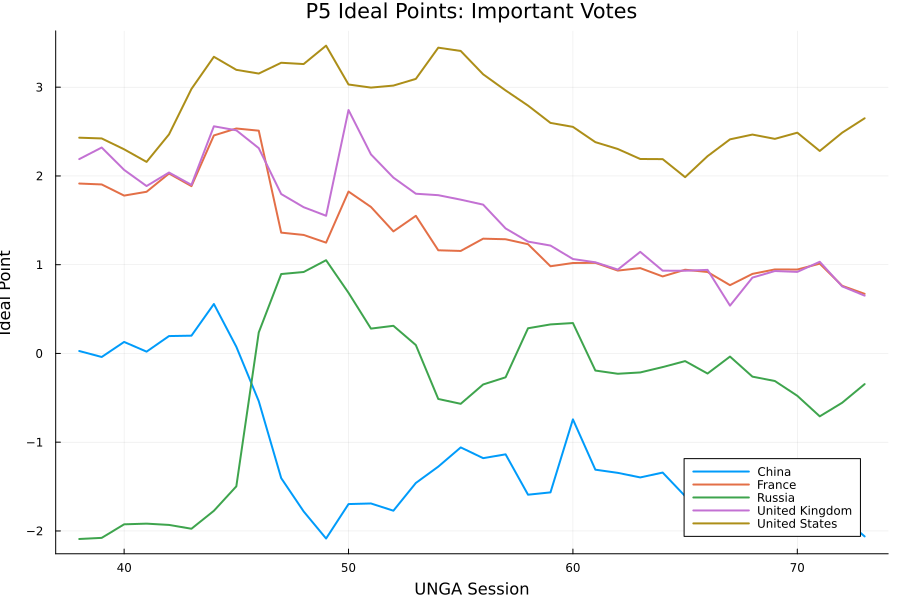
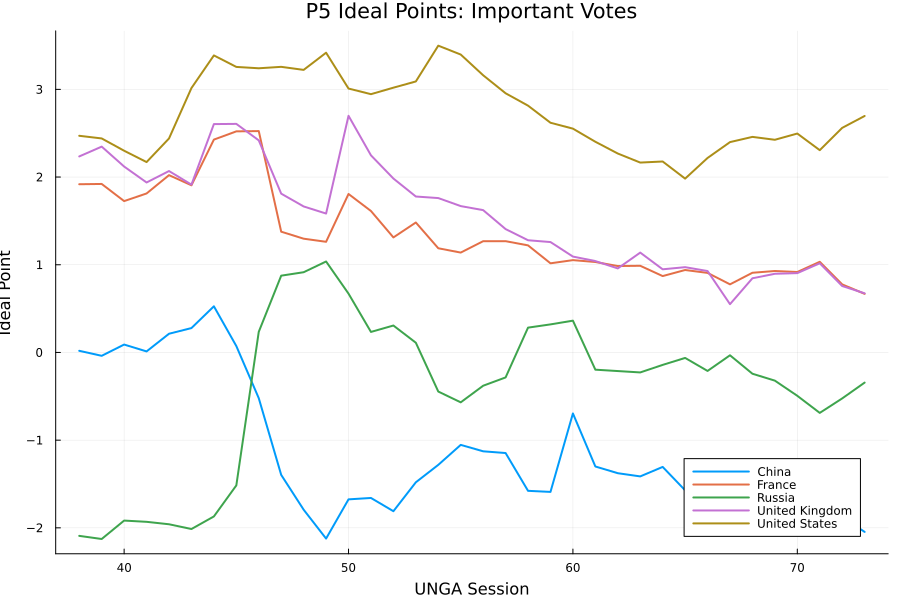
Improve plotting workflow and update documentation

diff --git a/README.md b/README.md
@@ -15,12 +15,16 @@ Project documentation and replication report:
 
 # Installation
 
-Clone the repository and activate the Julia environment:
+From the repository root, start Julia with:
+
+```bash
+julia --project=.
+```
+
+Then instantiate the project environment:
 
 ```julia
 using Pkg
-
-Pkg.activate(".")
 Pkg.instantiate()
 ```
 
@@ -28,6 +32,12 @@ Load the package:
 
 ```julia
 using UNIdealPointsJulia
+```
+
+Print the package entry point and available replication commands:
+
+```julia
+UNIdealPointsJulia.run()
 ```
 
 ---
@@ -61,8 +71,6 @@ Arguments:
 ## Smoke test
 
 ```julia
-using UNIdealPointsJulia
-
 UNIdealPointsJulia.run_replication(
     dataset = :all,
     test = true
@@ -72,8 +80,6 @@ UNIdealPointsJulia.run_replication(
 ## Full replication — Important votes
 
 ```julia
-using UNIdealPointsJulia
-
 UNIdealPointsJulia.run_replication(
     dataset = :important,
     test = false
@@ -83,8 +89,6 @@ UNIdealPointsJulia.run_replication(
 ## Full replication — All votes
 
 ```julia
-using UNIdealPointsJulia
-
 UNIdealPointsJulia.run_replication(
     dataset = :all,
     test = false
@@ -93,9 +97,34 @@ UNIdealPointsJulia.run_replication(
 
 ---
 
+# Generate figures
+
+After running the corresponding full replication, figures can be generated from the repository root.
+
+Important-votes figure:
+
+```bash
+julia --project=. scripts/plot_p5_important.jl
+```
+
+All-votes figure:
+
+```bash
+julia --project=. scripts/plot_p5.jl
+```
+
+The plotting scripts require the corresponding full MCMC output files:
+
+```text
+output/ThetaEst_full.csv
+output/ThetaEst_full_all.csv
+```
+
+---
+
 # Wrapper scripts
 
-The same runs can also be executed through the wrapper scripts:
+The same MCMC runs can also be executed through wrapper scripts:
 
 ```text
 scripts/run_mcmc_smoke_test.jl
@@ -131,13 +160,12 @@ UNIdealPointsJulia/
 
 # Main outputs
 
-Main generated outputs:
-
 ```text
 output/ThetaEst_full.csv
 output/ThetaEst_full_all.csv
 output/dyadic_distances_full_all.csv
 figures/p5_ideal_points_julia.png
+figures/p5_ideal_points_julia_important.png
 ```
 
 ---